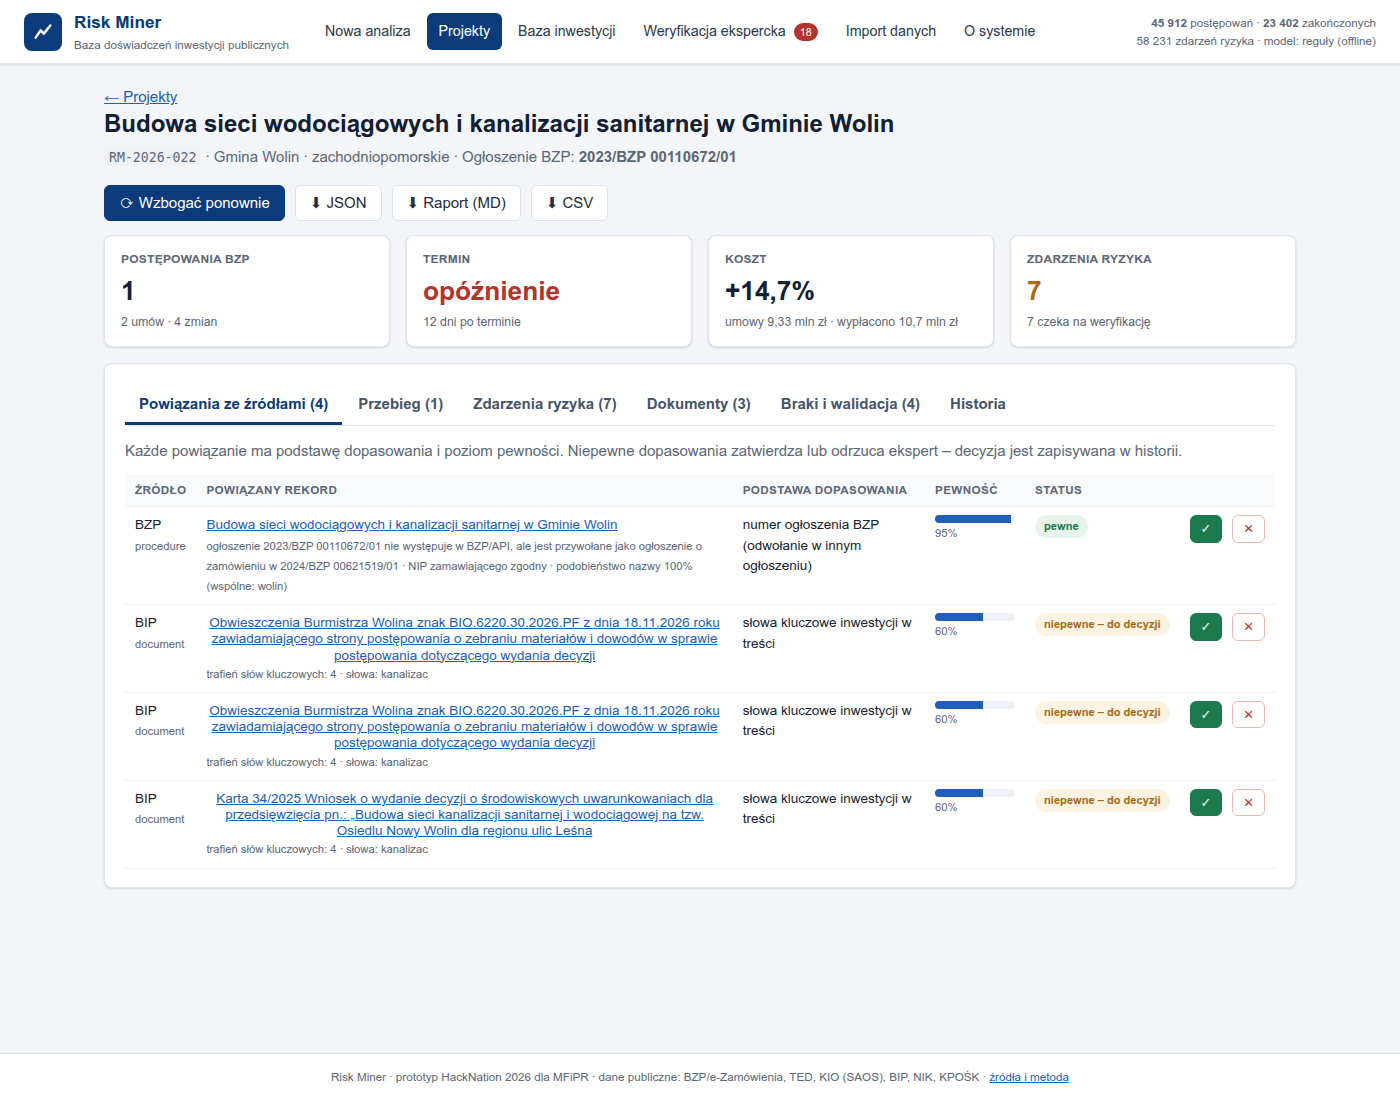
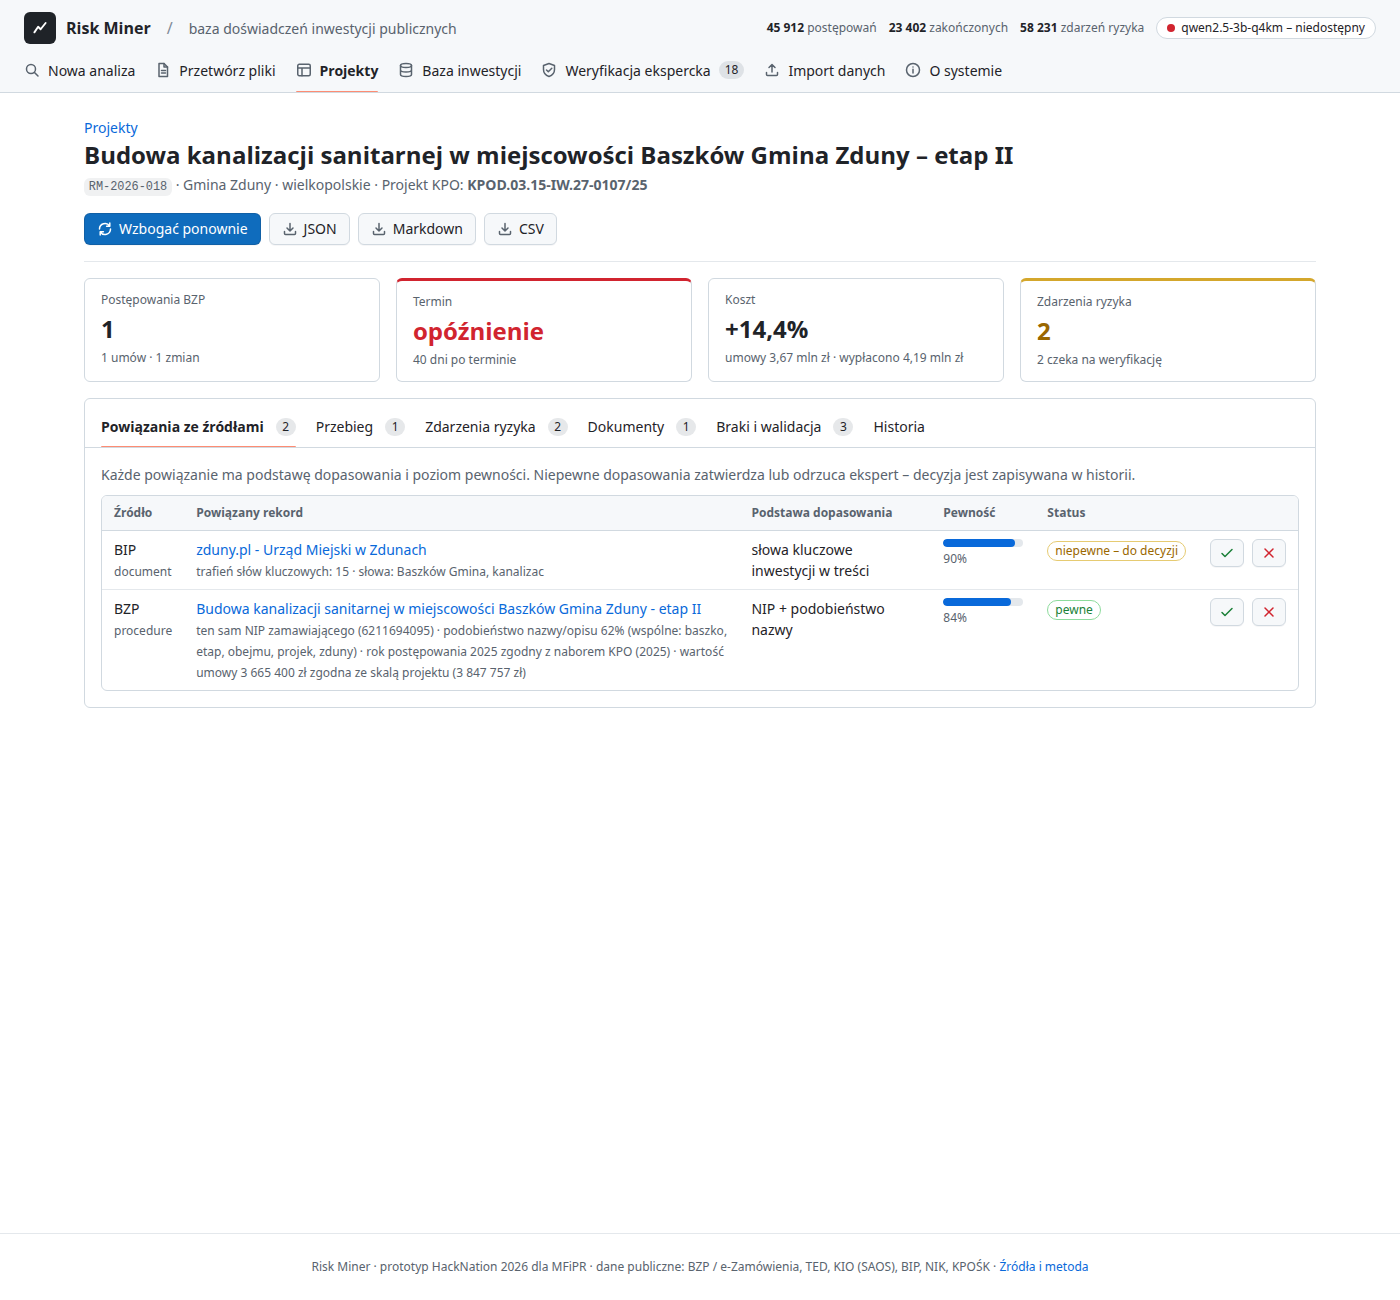
Dokumentacja: scenariusz pokazu i testu o 11:00 (docs/DEMO.md), README: przetwarzanie plików, BIP, lokalny model i licencje, nowe zrzuty ekranu

diff --git a/README.md b/README.md
@@ -34,7 +34,7 @@ Materiały: [prezentacja (PDF, 10 slajdów)](docs/prezentacja.pdf) · [architekt
 
 | # | Wymaganie z treści zadania | Gdzie w rozwiązaniu | Stan |
 |---|---|---|---|
-| 0 | [Szybki start i test o 11:00](#0-szybki-start) | `python -m riskminer test-run` | ✅ |
+| 0 | [Szybki start i test o 11:00](#0-szybki-start) · [scenariusz pokazu](docs/DEMO.md) | zakładka „Przetwórz pliki” · `python -m riskminer test-run` | ✅ |
 | 1 | [Problem, zakres, główny scenariusz użytkownika](#1-problem-zakres-i-scenariusz-użytkownika) (rozdz. 1–2) | zakładka „Nowa analiza” | ✅ |
 | 2 | [Oczekiwany rezultat](#2-oczekiwany-rezultat-rozdz-3) (rozdz. 3) | | |
 | 2.1 | [Automatyczne zasilanie bazy (BZP, TED, KIO, BIP, NIK, KPOŚK, pliki)](#21-automatyczne-zasilanie-bazy) | `riskminer/build.py`, `sources/` | ✅ |
@@ -73,9 +73,13 @@ python -m riskminer serve                     # http://127.0.0.1:8000
 
 ### Test jury o 11:00 (rekord dodatkowego projektu + opis nowej inwestycji)
 
-**W interfejsie:** „Import danych” → przeciągnij plik z rekordem → projekt pojawia się w „Projekty” z powiązaniami →
-przycisk **⬇ JSON / ⬇ Raport (MD) / ⬇ CSV**. Następnie „Nowa analiza” → **📄 Wczytaj dokument** (opis inwestycji) →
-„Przygotuj raport” → „Wygeneruj raport” → **⬇ Raport (Markdown)** / CSV / JSON / Drukuj do PDF.
+**W przeglądarce, jednym kliknięciem:** zakładka **Przetwórz pliki** → przeciągnij rekord projektu (XLSX/CSV) i opis
+inwestycji (DOCX/PDF/TXT) → **Przetwórz i przygotuj pliki**. Po ok. minucie gotowe są dwa pliki główne –
+`1_rekord_projektu_<ID>.md` (eksport rekordu) i `2_analiza_inwestycji_<AN-ID>.md` / `.pdf` (analiza) – oraz te same wyniki
+w JSON, CSV i ZIP (`data/wyniki/<przebieg>/`). Szczegółowa instrukcja i plan B: [docs/DEMO.md](docs/DEMO.md).
+
+**Krok po kroku w interfejsie:** „Import danych” → rekord → „Projekty” → eksport JSON/Markdown/CSV; „Nowa analiza” →
+„Wczytaj dokument” → sprawdzenie parametrów → raport → eksport Markdown/CSV/JSON lub druk do PDF.
 
 **Jednym poleceniem (bez zmian w kodzie):**
 
@@ -84,6 +88,22 @@ python -m riskminer test-run --project rekord_projektu.xlsx --investment opis_in
 # wyniki_testu/projekt_<ID>.json|.md|.csv  – eksport rekordu projektu (z powiązaniami, zmianami, zdarzeniami i źródłami)
 # wyniki_testu/AN-....md|.json|.csv        – analiza nowej inwestycji
 ```
+
+### Lokalny model językowy (opcjonalnie)
+
+Model odczytuje opis inwestycji i wypełnia formularz parametrów (rodzaj inwestycji, robót, formuła, miejsce, budżet, termin,
+skala, elementy techniczne, frazy do wyszukiwania). **Każda wartość ma cytat z opisu, który system sprawdza w tekście**; liczby są
+porównywane z regułami (pierwszeństwo mają dokładne wyrażenia), a rozbieżności są pokazywane urzędnikowi przy polu formularza.
+Bez modelu wszystko działa na regułach eksperckich.
+
+```bash
+# llama.cpp (CPU, bez karty graficznej): https://github.com/ggml-org/llama.cpp/releases – plik ubuntu-x64 do ../llm_runtime/bin/
+# model GGUF do ../llm_runtime/models/, np. Bielik-1.5B-v3.0-Instruct.Q8_0.gguf (SpeakLeash) lub qwen2.5-3b-instruct-q4_k_m.gguf
+scripts/start_llm.sh [plik.gguf]        # serwer zgodny z OpenAI na http://127.0.0.1:8080, tylko lokalnie
+# config.toml, sekcja [llm]:  provider = "openai", base_url = "http://127.0.0.1:8080", model = "<nazwa>"
+```
+
+Zamiast llama.cpp: Ollama (np. Bielik 11B) albo dowolne API zgodne z OpenAI (np. Mistral w UE) – zmiana tylko w `config.toml`.
 
 ---
 
@@ -218,6 +238,10 @@ Raport (zakładka „Nowa analiza”, zapisywany jako rekord w `analyses`):
   stroną i **gotową wiadomością**; gdy danych jest mało – wyraźny komunikat i zachęta do kontaktu.
 * **Rozróżnienie rodzaju informacji** w całym raporcie: *Dane źródłowe* / *Obliczenia* / *Wniosek / rekomendacja* (reguły lub model).
 
+**Odczyt opisu:** model językowy (lokalny) + reguły; przy każdym parametrze źródło (*model*, *reguły*, *model i reguły – zgodne*,
+*poprawione*) i cytat. Opis zbyt ogólny („planujemy jakąś inwestycję”) daje czerwoną flagę i prośbę o uzupełnienie – raport nie udaje pewności.
+Słowa potoczne („w naszej gminie”, „chcemy”) nie trafiają do wyszukiwania; terminy potoczne („rok na realizację”, „półtora roku”) są rozumiane.
+
 ### 2.7 Rozwój (funkcje dodatkowe)
 
 * **Moduł monitorowania** – dla postępowań w realizacji powiązanych z projektami sprawdza API BZP pod kątem nowych ogłoszeń
@@ -225,10 +249,16 @@ Raport (zakładka „Nowa analiza”, zapisywany jako rekord w `analyses`):
 * **Sieć kontaktów** – „do kogo się zwrócić” z gotowym e-mailem (pomysł z pytań do mentorów).
 * **Wielosektorowość** – sektory i podsektory w bazie; BZP innych sektorów (drogi, kubatura, energetyka, kolej) ładowane z `data_lake`.
 * **Przypadki wzorcowe**, **ocena skuteczności działań**, **wykrywanie błędów w danych wejściowych**.
+* **Dodaj dane z BIP** (Import danych) – urzędnik wkleja adres strony BIP albo bezpośredni link do PDF/DOCX (lub kopiuje treść strony);
+  system pobiera stronę i jej załączniki (protokoły, aneksy, umowy, zarządzenia), zapisuje je z adresem źródła i SHA-256, opcjonalnie
+  przypina do projektu i wskazuje fragmenty ryzyka (z numerem strony) do weryfikacji eksperta. `riskminer/bip_import.py`
+* **Przetwórz pliki** – rekord projektu + opis inwestycji → komplet plików wyników jednym kliknięciem (Markdown, JSON, CSV, PDF z tekstem, ZIP).
+  `riskminer/pipeline.py`
 
 ### 2.8 Przystępność
 
-Interfejs po polsku, jasny i stonowany (styl administracji), kroki 1-2-3, podpowiedzi „co warto napisać”, przykłady,
+Interfejs po polsku, w konwencji znanej z narzędzi biurowych i administracyjnych (wzorce GitHub Primer i Microsoft Fluent:
+płaskie powierzchnie, czytelna typografia systemowa, ikony liniowe zamiast emoji, zakładki z licznikami), kroki 1-2-3, podpowiedzi „co warto napisać”, przykłady,
 objaśnienia liczb („jak czytać medianę i przedział”), etykiety dla danych/obliczeń/wniosków, eksport do formatów biurowych
 (CSV dla Excela, druk do PDF). Nie wymaga instalacji niczego poza Pythonem; strona działa w każdej przeglądarce.
 
@@ -298,7 +328,8 @@ Polecenia CLI:
 | `python -m riskminer import PLIK.xlsx [--offline] [--no-external]` | import projektów + wzbogacenie |
 | `python -m riskminer analyze OPIS.docx --out katalog/` | analiza nowej inwestycji → MD/JSON/CSV |
 | `python -m riskminer export-project RM-2026-001 --out katalog/` | eksport rekordu projektu |
-| `python -m riskminer test-run --project P.xlsx --investment O.docx --out wyniki/` | pełna ścieżka testowa |
+| `python -m riskminer test-run --project P.xlsx --investment O.docx --out wyniki/` | pełna ścieżka testowa (to samo co „Przetwórz pliki”) |
+| `scripts/start_llm.sh [model.gguf]` | lokalny model językowy (llama.cpp, API zgodne z OpenAI na :8080) |
 | `python -m riskminer extras` | KIO, TED, BZP wielosektorowe, KPOŚK z `data_lake` |
 | `python -m riskminer link-report --out docs/raport_testu_laczenia.md` | raport z testu łączenia |
 
@@ -341,7 +372,10 @@ docs/                   architektura, raport z testu łączenia, przykładowe ek
 | Python 3 (biblioteka standardowa, SQLite FTS5) | PSF / public domain |
 | Testy | `python -m unittest discover tests` (parser BZP, kwoty, okresy, NIP/KPO, klasyfikacja, ekstrakcja) |
 | Opcjonalnie: pypdf (BSD), poppler-utils (GPL, narzędzie zewnętrzne), LibreOffice (MPL), tesseract (Apache 2.0) | |
-| Opcjonalnie: model Bielik (SpeakLeash, Apache 2.0) przez Ollamę (MIT) lub API zgodne z OpenAI | wg dostawcy |
+| Opcjonalnie: llama.cpp (MIT) – lokalny serwer modelu | MIT |
+| Opcjonalnie: Bielik-1.5B-v3.0-Instruct / Bielik-11B (SpeakLeash) – polski model, zalecany do zastosowań w administracji | Apache 2.0 |
+| Opcjonalnie: Qwen2.5-3B-Instruct (Alibaba) – do prototypu; licencja badawcza (bez zastosowań komercyjnych); Qwen2.5-1.5B/7B – Apache 2.0 | Qwen Research / Apache 2.0 |
+| Opcjonalnie: Ollama (MIT) lub dowolne API zgodne z OpenAI | wg dostawcy |
 
 Dane osobowe: system przetwarza wyłącznie publiczne dane kontaktowe zamawiających (instytucji) z ogłoszeń BZP.
 
@@ -356,7 +390,8 @@ Dane osobowe: system przetwarza wyłącznie publiczne dane kontaktowe zamawiają
 * Baza Konkurencyjności 2021 – aplikacja SPA bez publicznego API; konektor zaprojektowany (harvester diagnozuje endpoint), nie wchodzi do analiz.
 * Pełne pobieranie dokumentów postępowań z platform zakupowych (SWZ, PFU, PPU) – linki do platform są w bazie (`platform_url`),
   pobieranie wymaga obsługi wielu platform (Logintrade, platformazakupowa.pl, e-Zamówienia).
-* Model językowy do klasyfikacji zdarzeń niesklasyfikowanych (kategoria BRAK) – interfejs gotowy (`llm.py`), domyślnie wyłączony.
+* Model językowy do klasyfikacji zdarzeń niesklasyfikowanych (kategoria BRAK) – interfejs gotowy (`llm.py`); model jest dziś używany
+  do odczytu opisu nowej inwestycji (formularz parametrów) i opcjonalnego streszczenia raportu.
 * PostgreSQL + pgvector zamiast SQLite dla wielu sektorów i milionów dokumentów.
 
 **Ograniczenia danych (komunikowane w raportach):** brak informacji w ogłoszeniu ≠ brak zdarzenia; ogłoszenie o wykonaniu umowy

diff --git a/docs/DEMO.md b/docs/DEMO.md
@@ -1,0 +1,77 @@
+# Risk Miner – scenariusz pokazu i test o 11:00
+
+## Test jury (11:00–11:45) – krok po kroku
+
+Jury przekazuje dwa pliki: **rekord dodatkowego projektu** (jak w `Risk_Miner_dane_projekty.xlsx`) i **opis nowej inwestycji**
+(kilka stron tekstu). Oddajemy dwa pliki tekstowe: **eksport rekordu projektu** i **analizę nowej inwestycji**. Bez zmian w kodzie.
+
+**Przed 11:00 (5 min):**
+
+```bash
+cd smart_kraken
+scripts/start_llm.sh &                 # opcjonalnie: lokalny model językowy (odczyt opisu); bez niego działają reguły
+python -m riskminer serve              # http://127.0.0.1:8000 – sprawdź w nagłówku: liczba postępowań i stan modelu
+```
+
+**O 11:00 – w przeglądarce (zalecane):**
+
+1. Zakładka **Przetwórz pliki**.
+2. Przeciągnij **rekord projektu** (XLSX/CSV) do pola „1. Rekord projektu”.
+3. Przeciągnij **opis inwestycji** (DOCX/PDF/TXT) do pola „2. Opis nowej inwestycji” (albo wklej tekst).
+4. **Przetwórz i przygotuj pliki** (ok. 1 min ze źródłami zewnętrznymi; postęp widać w dzienniku).
+5. Pobierz dwa pliki główne:
+   * `1_rekord_projektu_<ID>.md` – eksport rekordu projektu (powiązania z BZP/TED/KIO/BIP/NIK z podstawą i pewnością,
+     przebieg, zmiany umów, zdarzenia ryzyka z cytatami, braki w danych, walidacja identyfikatorów),
+   * `2_analiza_inwestycji_<AN-ID>.md` (lub `.pdf` – PDF z tekstem) – analiza nowej inwestycji.
+   Te same wyniki są też w JSON i CSV, a wszystko razem – w ZIP. Pliki leżą w `data/wyniki/<przebieg>/`.
+6. Wgraj pliki na stronę podaną przez organizatorów.
+7. Dla pewności otwórz **projekt** i **raport** z przycisków pod wynikami – sprawdź, czy dane mają sens (np. niepewne powiązania).
+
+**Plan B – terminal (to samo, bez przeglądarki):**
+
+```bash
+python -m riskminer test-run --project rekord.xlsx --investment opis.docx --out wyniki_testu/
+```
+
+**Gdy coś nie działa:**
+
+| Objaw | Co zrobić |
+|---|---|
+| „Model … niedostępny” w nagłówku | Nic – opis odczytają reguły. Albo uruchom `scripts/start_llm.sh`. |
+| Brak internetu | Odznacz „przeszukaj źródła zewnętrzne”; łączenie z lokalną bazą BZP działa offline. |
+| Projekt bez powiązania BZP | Raport rekordu pokazuje „brak”/„niepewne” z uzasadnieniem – to poprawny wynik; ekspert może zatwierdzić kandydata. |
+| Plik opisu to skan PDF | Odczyt przez OCR (tesseract), jeśli zainstalowany; inaczej wklej tekst w polu „albo wklej tekst opisu”. |
+
+## Pokaz dla jury (ok. 5 min)
+
+1. **Nowa analiza → przykład „Opis potoczny, jak w mailu”** – urzędnik pisze jak w mailu; model językowy (lokalnie) wypełnia
+   formularz, przy każdej wartości widać cytat z opisu i źródło (model / reguły / zgodne). Rozbieżności są oznaczone.
+2. **Wygeneruj raport** – ryzyko opóźnienia z przedziałem 90% i N, rzeczywisty czas, zmiana kosztu, ocena budżetu na km,
+   sygnały ostrzegawcze; zakładka **Problemy** – każdy wniosek ma cytat i numer ogłoszenia (klik → treść ogłoszenia z podświetleniem).
+3. **Przykład „Zbyt mały budżet i zbyt krótki termin”** – czerwone flagi: budżet/km niższy niż w 82% podobnych, termin krótszy
+   niż mediana.
+4. **Do kogo się zwrócić** – gminy, które robiły to samo (z sukcesem lub z problemami), z gotowym e-mailem.
+5. **Projekty → RM-2026-022 (Wolin)** – numer BZP z rekordu nie istnieje; system wykrył błąd i odnalazł postępowanie po odwołaniach.
+6. **Weryfikacja ekspercka** – zatwierdź/odrzuć niepewne powiązanie; zmień kategorię zdarzenia; historia decyzji.
+7. **Import danych → Dodaj dane z BIP** – wklej adres strony BIP (np. zapytanie ofertowe z załącznikami); system pobiera stronę
+   i załączniki, zapisuje źródło i SHA-256, wskazuje fragmenty ryzyka do weryfikacji.
+8. **Przetwórz pliki** – ścieżka testu jury jednym kliknięciem.
+
+## Przykładowe opisy do pokazu (wbudowane w „Nowa analiza → Przykłady”)
+
+| Przykład | Co pokazuje |
+|---|---|
+| **Kanalizacja w gminie wiejskiej – pełny opis** (Kłoda, 3,6 km + 1,2 km, ZiW, 4,2 mln netto, 14 mies.) | pełny raport: Natura/grunty prywatne/przewiert, R06/R07/R03 z dowodami |
+| **Zbyt mały budżet i zbyt krótki termin** (15 km za 3 mln zł w 6 mies.) | czerwone flagi budżetu i terminu |
+| **Opis potoczny, jak w mailu** („chcemy… w naszej gminie… rok na realizację”) | rozumienie języka potocznego (model + reguły) |
+| **Oczyszczalnia – zaprojektuj i wybuduj** (Wadowice, 1200 m³/d, 24 mln) | inny podsektor, ryzyko PFU i rozruchu, 56% opóźnień |
+| **Stacja uzdatniania wody z wodociągiem** (Juchnowiec Kościelny) | dopasowanie do wcześniejszych inwestycji tej samej gminy, termin krótszy niż u 75% |
+| **Rzadka technologia: kanalizacja podciśnieniowa** | wyszukiwanie po znaczeniu – znajduje stację próżniową (Abramów) |
+| **Kanalizacja deszczowa i retencja** (Łowicz) | podsektor deszczowy, wysoki udział robót dodatkowych |
+
+Opis zbyt ogólny (np. „Proszę o pomoc, planujemy jakąś inwestycję w naszej gminie”) daje czerwony komunikat z prośbą
+o uzupełnienie – system nie udaje pewności.
+
+**Do wklejenia w „Dodaj dane z BIP” (zakładka Import danych):**
+`https://bip.goscieradow.pl/wiadomosci/12162/wiadomosc/461134/zapytanie_ofertowe_na_modernizacje_oczyszczalni_w_wolce_gosciera`
+(zapytanie ofertowe z 6 załącznikami: przedmiar, wzór umowy, informacja z otwarcia ofert, wybór oferty).
